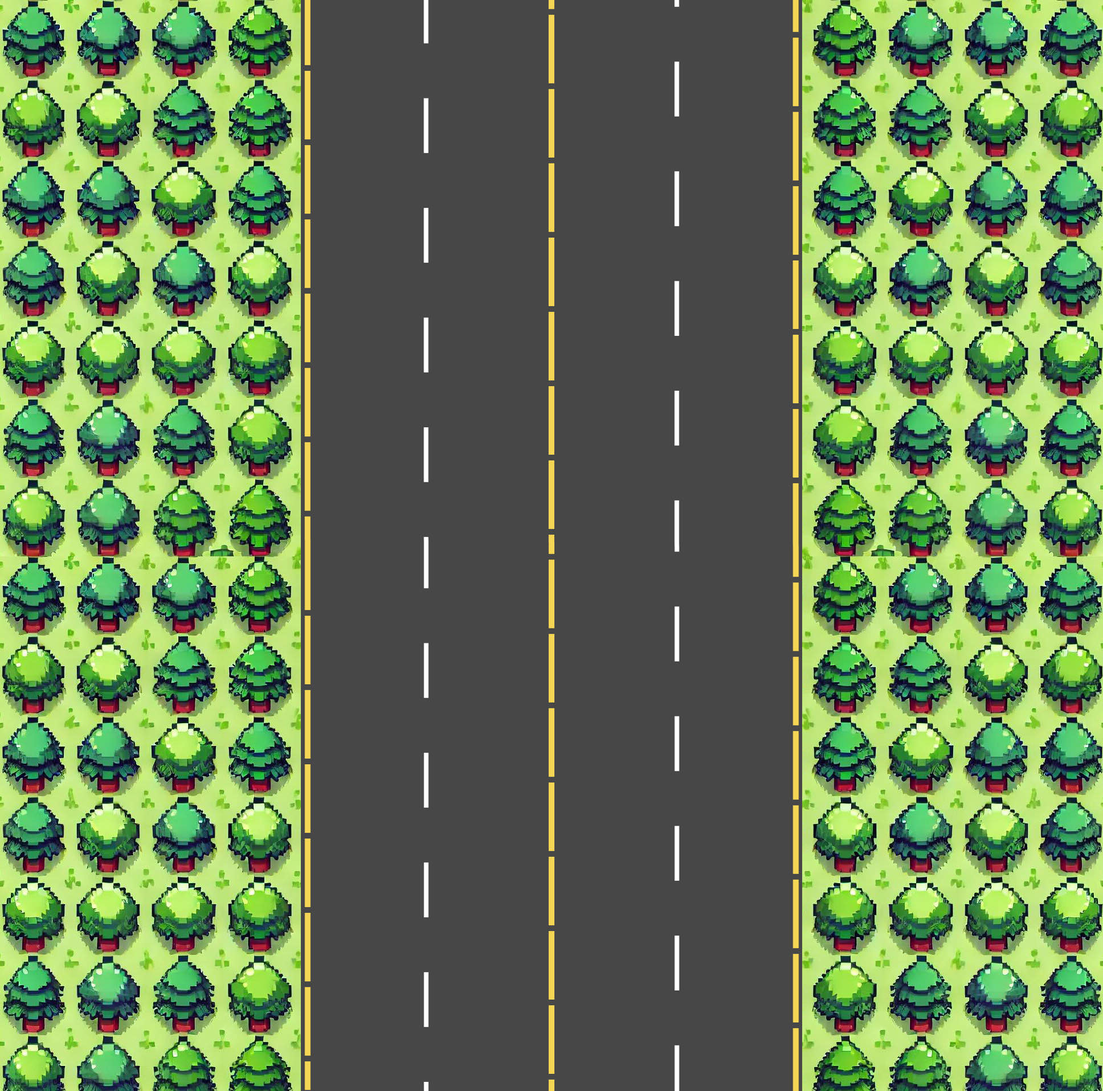
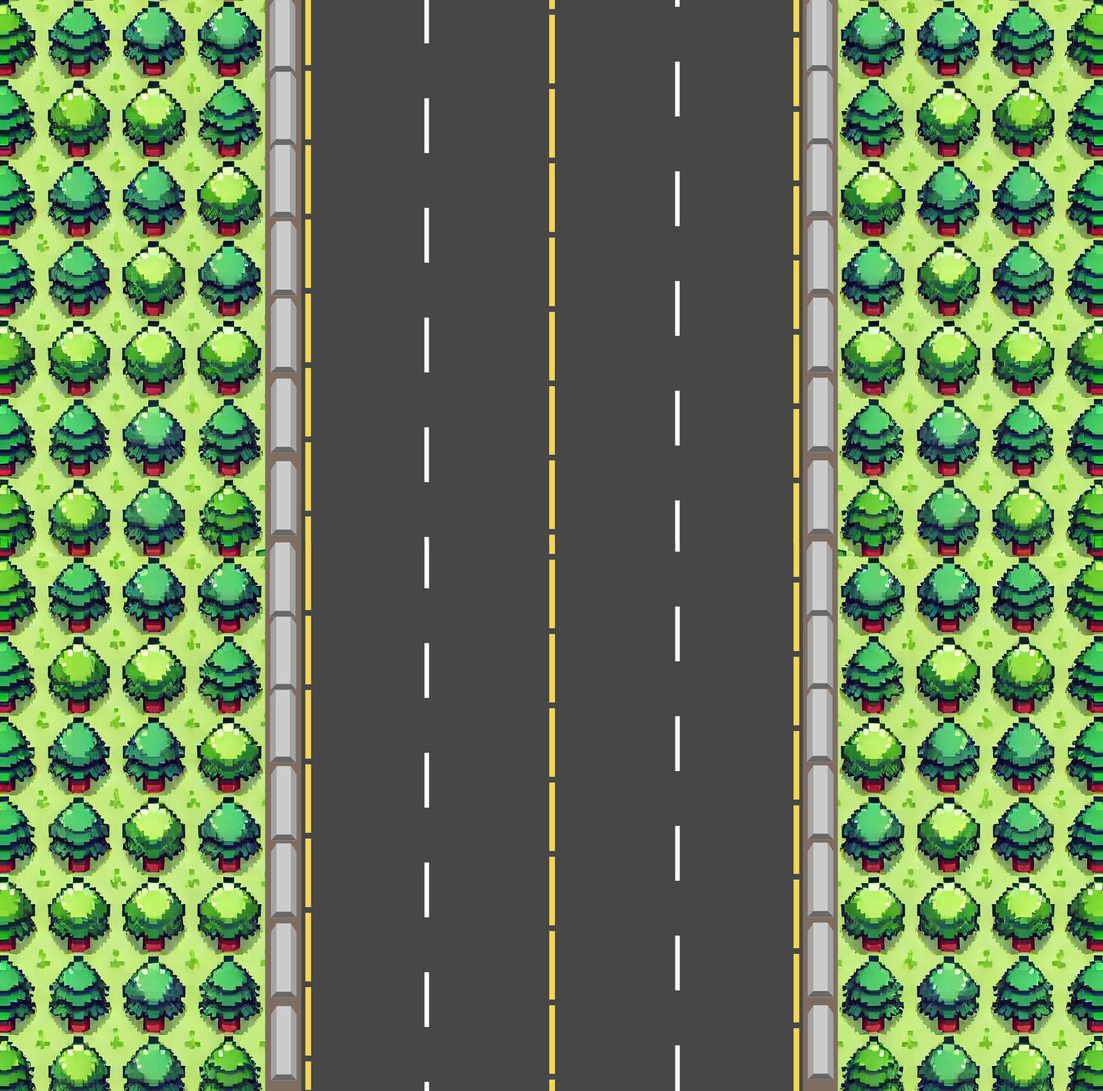
Changed canvas - Added tree background - Changed Spawning factors for X - Changed Scaling factor for vehicles

diff --git a/src/main/java/com/game/GameWorld.java b/src/main/java/com/game/GameWorld.java
@@ -124,20 +124,18 @@ public class GameWorld {
 
     private double [] calculateStreetLanes() {
         final double STREET_WIDTH = gameManager.getCanvasWidth();
-        final double firstLaneX = STREET_WIDTH * 0.075;
-        final double secondLaneX = STREET_WIDTH * 0.275;
-        final double thirdLaneX = STREET_WIDTH * 0.475;
-        final double fourthLaneX = STREET_WIDTH * 0.675;
-        System.out.println("1: " + firstLaneX);
-        System.out.println("2: " + secondLaneX);
-        System.out.println("3: " + thirdLaneX);
-        System.out.println("4: " + fourthLaneX);
+        final double firstLaneX = STREET_WIDTH * 0.275;
+        final double secondLaneX = STREET_WIDTH * 0.38;
+        final double thirdLaneX = STREET_WIDTH * 0.495;
+        final double fourthLaneX = STREET_WIDTH * 0.61;
 
         return new double[]{ firstLaneX, secondLaneX, thirdLaneX, fourthLaneX };
     }
 
     private boolean hasCollisionWithExistingNpcs(ArrayList<NPC> existingNpcs, Vehicle newVehicle) {
-        final double COLLISION_SCALING_FACTOR = 8;
+        // TODO: Change scaling factor based off the difficulty, care: if collision scaling factor is less than 3,
+        //  some vehicles overlap, so let even for hard 3 as the minimum
+        final double COLLISION_SCALING_FACTOR = 3;
         for (NPC existingNpc : existingNpcs) {
             for (Circle circle1 : existingNpc.getNpcVehicle().getCollisionCircles()) {
                 for (Circle circle2 : newVehicle.getCollisionCircles()) {

diff --git a/src/main/java/com/game/GameConstants.java b/src/main/java/com/game/GameConstants.java
@@ -69,7 +69,7 @@ public class GameConstants {
     public static final String MUSTANG_LEFT_IMAGE_PATH = "/images/vehicles/mustang_left.png";
 
     // File path for game background images
-    public static final String GAME_BACKGROUND_IMAGE_PATH = "/images/background/road_0.png";
+    public static final String GAME_BACKGROUND_IMAGE_PATH = "/images/background/game_background.jpg";
     public static final String MENU_BACKGROUND_IMAGE_PATH = "/images/background/menu_background.jpg";
 
     // File path for audios
@@ -80,7 +80,6 @@ public class GameConstants {
     // Images to gain coin or poisen, maybe future?
     public static final String COIN_IMAGE_PATH = "/images/icon/coin.jpg";
     public static final String POISEN_IMAGE_PATH = "/images/icon/poisen.jpg";
-
 
     // Log messages
 

diff --git a/src/main/java/com/game/UserInterface.java b/src/main/java/com/game/UserInterface.java
@@ -185,16 +185,11 @@ public class UserInterface extends Application {
     }
 
     public Canvas createStreetCanvas()  {
-        double streetWidthRatio = 0.5;
-        double streetHeightRatio = 1.0;
 
         double screenWidth = Screen.getPrimary().getBounds().getWidth();
         double screenHeight = Screen.getPrimary().getBounds().getHeight();
 
-        double streetWidth = screenWidth * streetWidthRatio;
-        double streetHeight = screenHeight * streetHeightRatio;
-
-        return new Canvas(streetWidth, streetHeight);
+        return new Canvas(screenWidth, screenHeight);
     }
 
     // Creates a menu layout for selecting the difficulty level (Easy, Medium, Hard) with animations.

diff --git a/src/main/java/com/game/GameRenderer.java b/src/main/java/com/game/GameRenderer.java
@@ -28,7 +28,7 @@ public class GameRenderer {
                 double imageWidth = vehicle.getVehicleImage().getWidth();
                 double imageHeight = vehicle.getVehicleImage().getHeight();
 
-                double scaleFactorX = canvasWidth * 0.25 / imageWidth;
+                double scaleFactorX = canvasWidth * 0.125 / imageWidth;
                 double scaleFactorY = scaleFactorX;
 
                 double scaledWidth = imageWidth * scaleFactorX;

diff --git a/src/main/java/com/game/GameEngine.java b/src/main/java/com/game/GameEngine.java
@@ -109,7 +109,6 @@ public class GameEngine {
         if (currentState != GameState.GAME_OVER) {
             currentState = GameState.GAME_OVER;
             running = false;
-            System.out.println("Spiel gestoppt. Game Over!");
             Platform.runLater(() -> {
                 int finalDistance = getDistanceTraveled();
                 userInterface.showGameOverWindow(finalDistance);

diff --git a/src/main/java/com/game/GameLogic.java b/src/main/java/com/game/GameLogic.java
@@ -71,7 +71,7 @@ public class GameLogic {
         distanceTraveled = (int) (distanceInPixels / pixelsPerMeter);
 
         if (distanceTraveled >= lastDistanceCheckpoint + 100) {
-            increaseVelocity(gameManager.getDifficulty());
+            //increaseVelocity(gameManager.getDifficulty());
             lastDistanceCheckpoint += 100;
         }
     }
